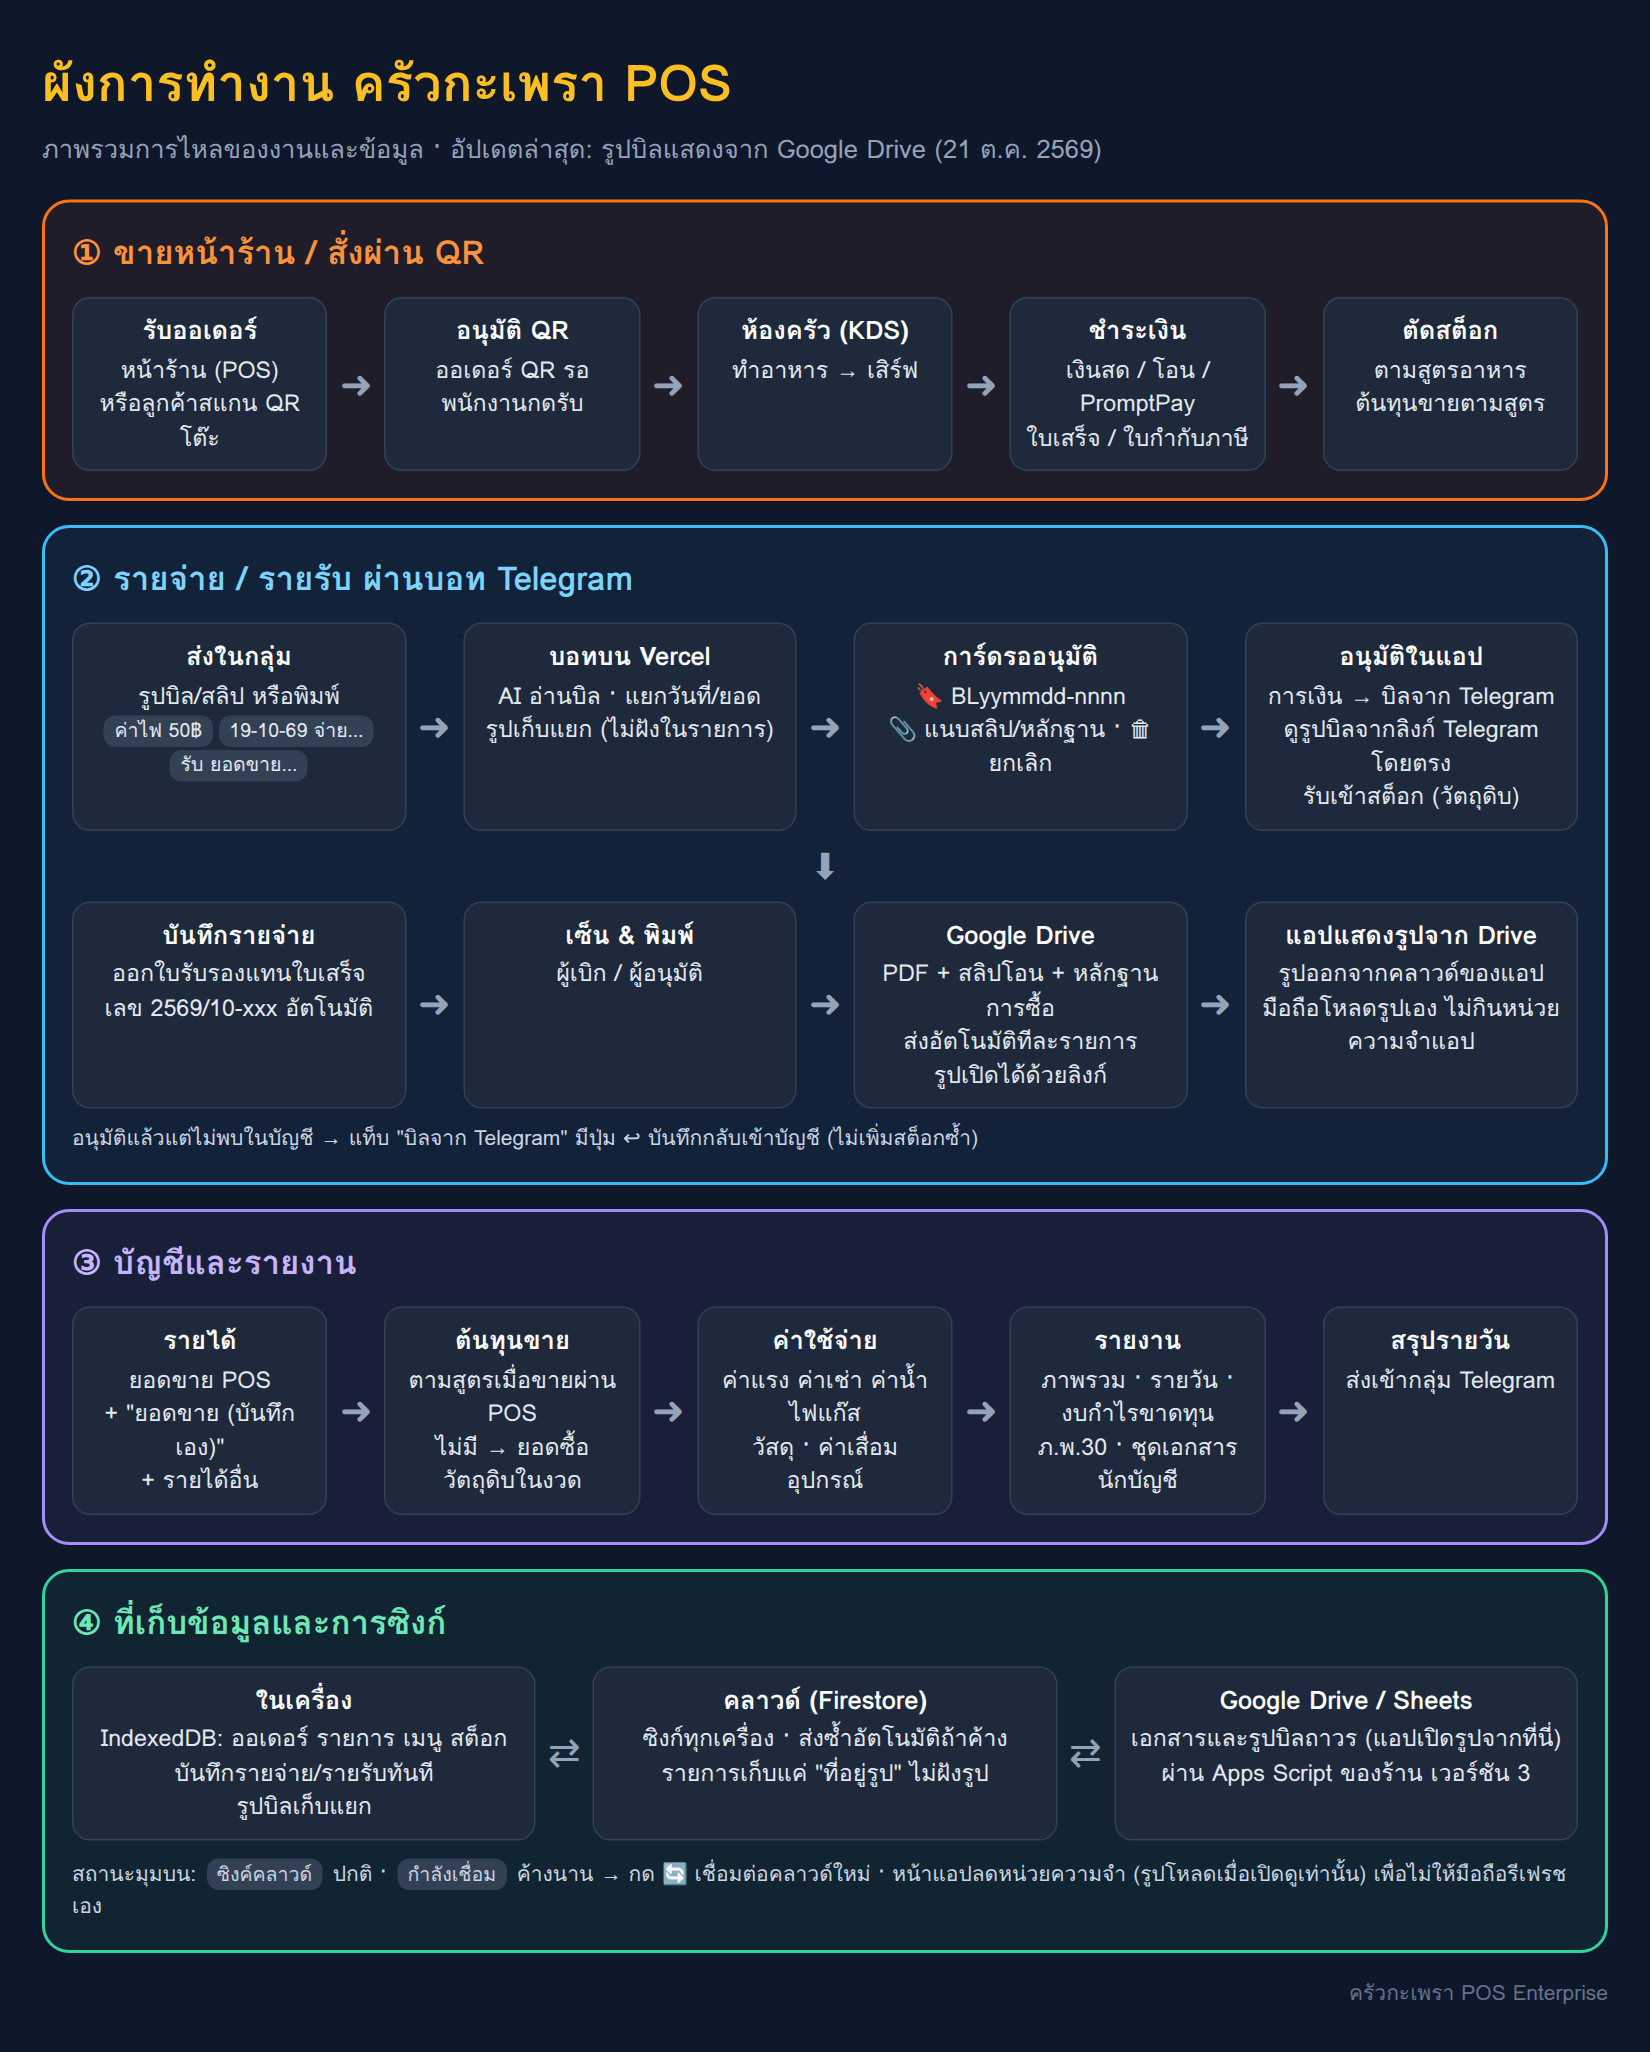
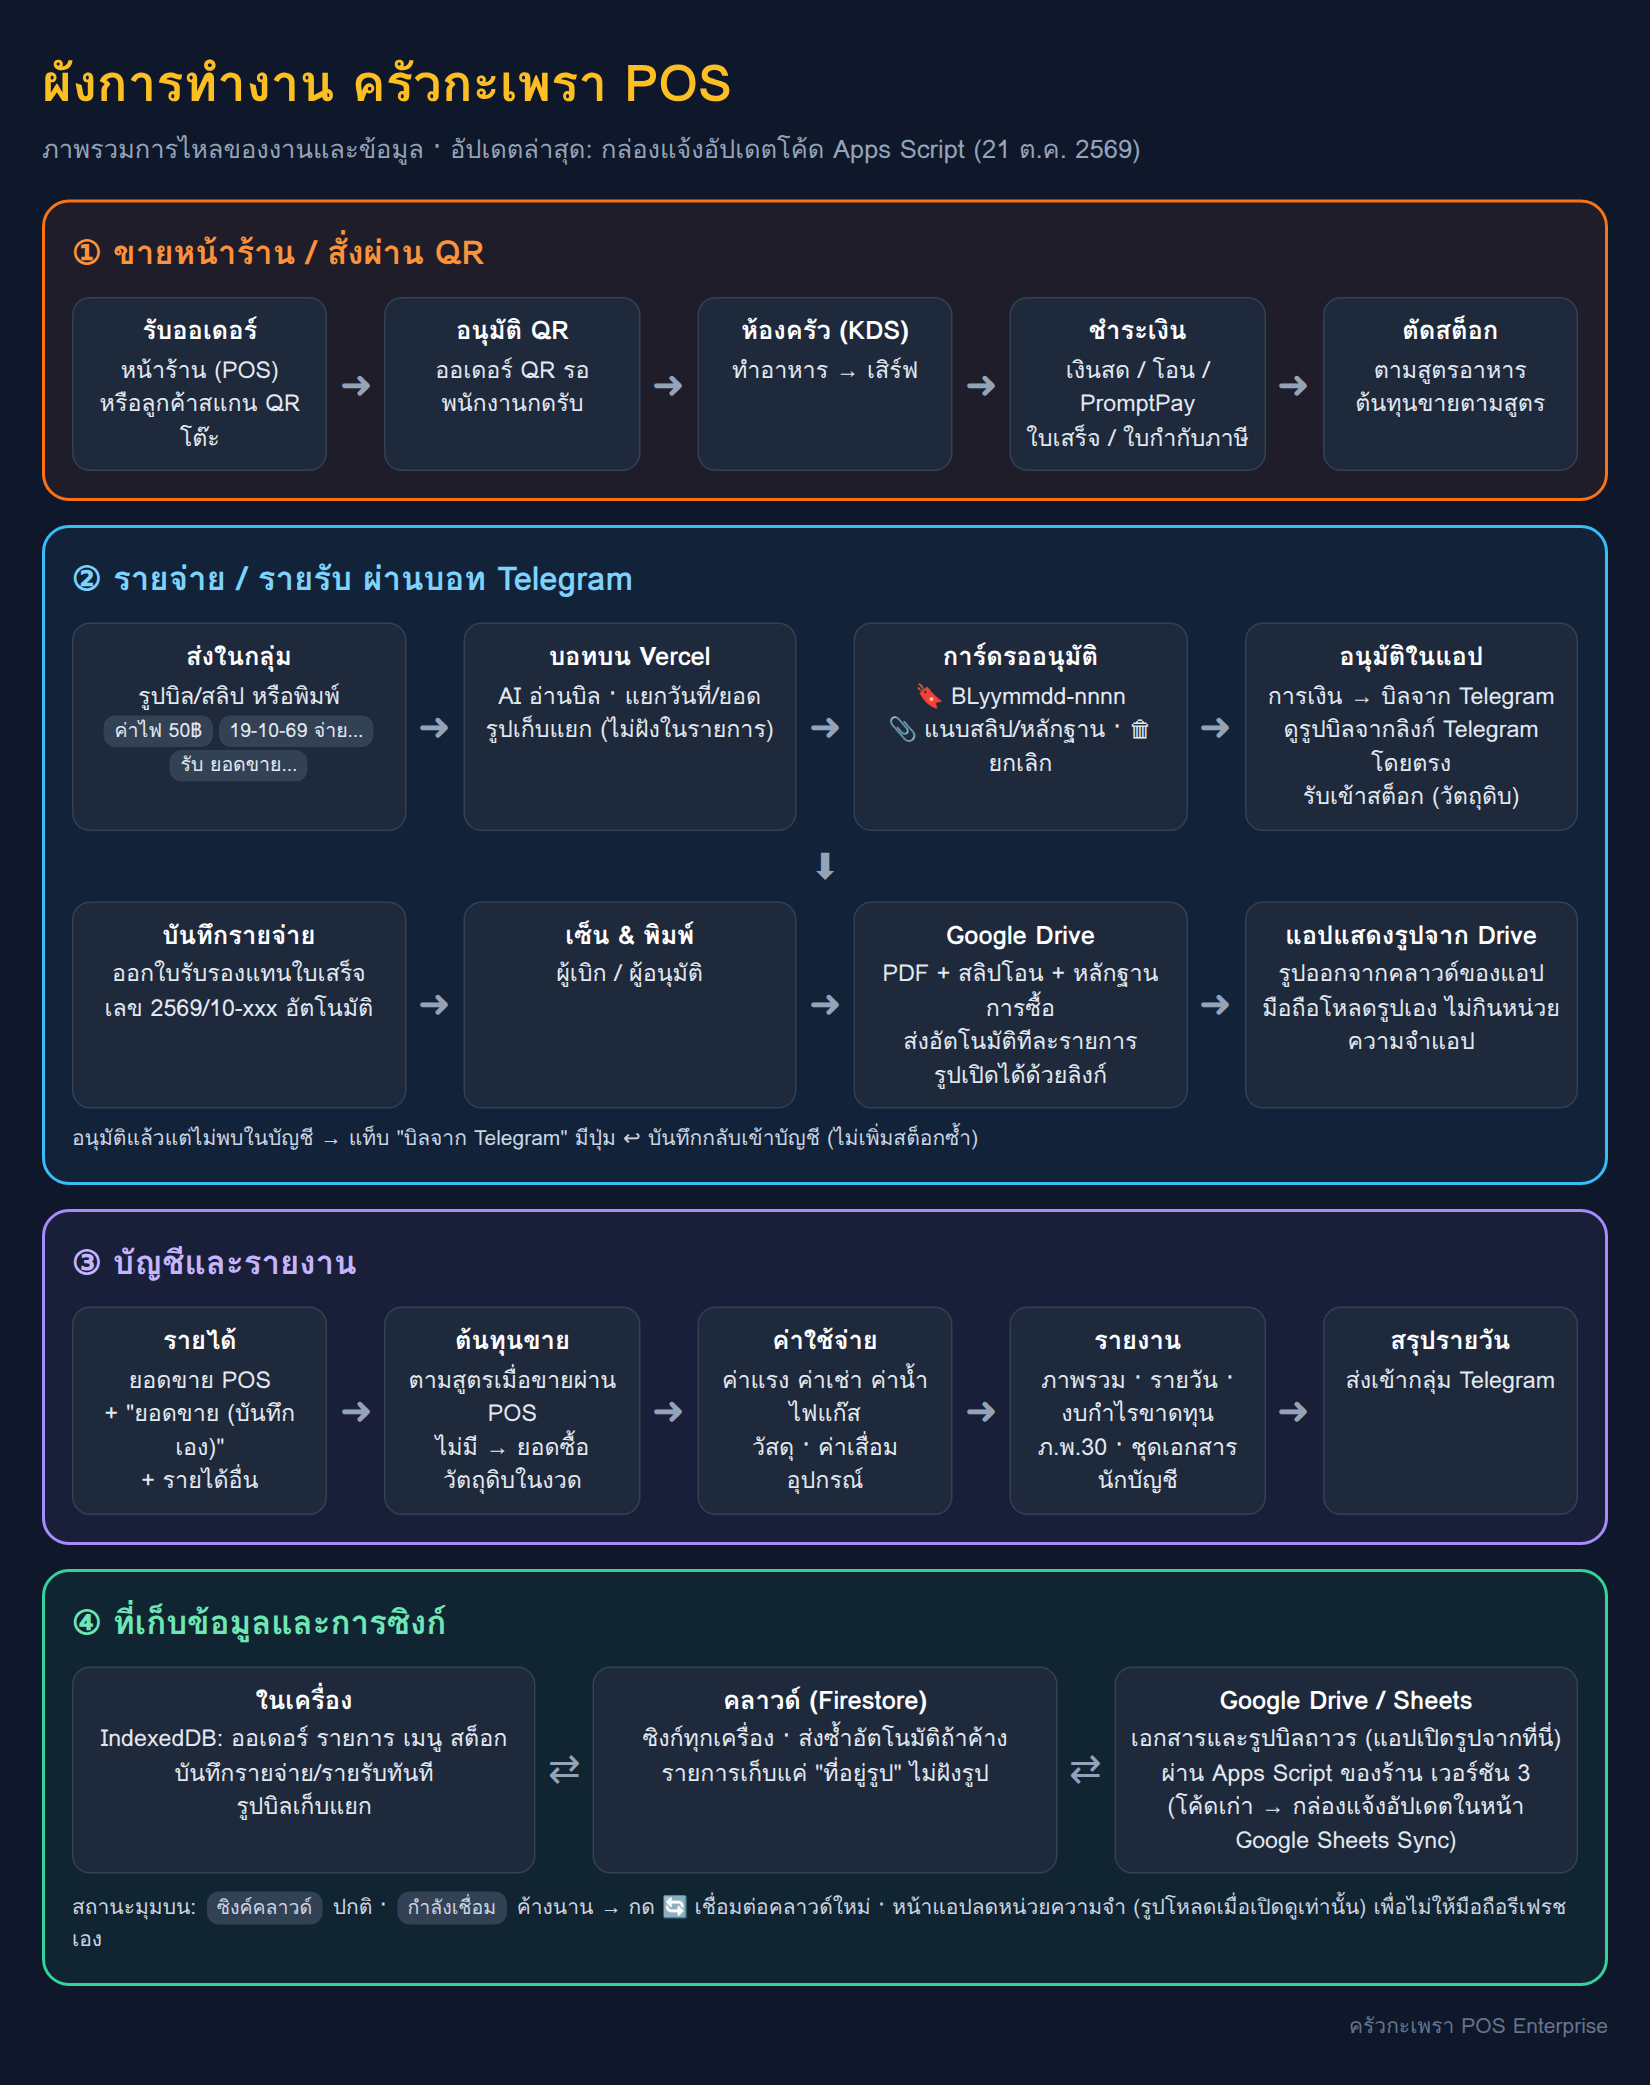
Google Sheets Sync: a clear box to update the Apps Script code
The owner could not find the small "copy the new code" link. When the
deployed script is older than this app's, the panel now shows a box with
the steps and a big copy button.

Claude-Session: https://claude.ai/code/session_01Gq3UvYW4wv3hsVCXoh5wxy

diff --git a/src/components/sheets/SheetsScriptPanel.tsx b/src/components/sheets/SheetsScriptPanel.tsx
@@ -52,6 +52,20 @@ export const SheetsScriptPanel: React.FC = () => {
 
   const connected = !!saved?.url && saved.secret === secret;
 
+  // The version of the script the shop deployed: an older one gets a clear "update the code" box
+  const [scriptVersion, setScriptVersion] = useState(0);
+  useEffect(() => {
+    if (!saved?.url || !saved.secret) return;
+    let alive = true;
+    pingScript(saved.url, saved.secret)
+      .then(r => alive && setScriptVersion(r.version || 1))
+      .catch(() => undefined);
+    return () => {
+      alive = false;
+    };
+  }, [saved?.url, saved?.secret]);
+  const outdated = connected && scriptVersion > 0 && scriptVersion < SCRIPT_VERSION;
+
   const copyCode = async () => {
     try {
       await navigator.clipboard.writeText(appsScriptCode(secret));
@@ -136,6 +150,22 @@ export const SheetsScriptPanel: React.FC = () => {
           </span>
         )}
       </div>
+
+      {outdated && (
+        <div className="p-3 rounded-xl border-2 border-amber-500/70 bg-amber-950/40 text-amber-100 space-y-2">
+          <div className="font-bold text-sm">⬆ มีโค้ด Apps Script เวอร์ชันใหม่ ({scriptVersion} → {SCRIPT_VERSION})</div>
+          <div className="text-[11px] leading-relaxed">
+            เวอร์ชันใหม่ทำให้แอปแสดงรูปสลิปและหลักฐานการซื้อจาก Google Drive ได้โดยตรง
+            <br />1. กดปุ่ม “คัดลอกโค้ดใหม่” ด้านล่าง
+            <br />2. เปิดไฟล์ Google Sheets ของร้าน → ส่วนขยาย → Apps Script → ลบโค้ดเดิมทั้งหมด วางโค้ดใหม่ แล้วกดบันทึก
+            <br />3. ทำให้ใช้งานได้ → จัดการการทำให้ใช้งานได้ → ✏ แก้ไข → เวอร์ชัน: เวอร์ชันใหม่ → ทำให้ใช้งานได้ (ลิงก์เดิมใช้ต่อได้)
+            <br />4. ถ้า Google ขอสิทธิ์ ให้กดอนุญาต แล้วกลับมาเปิดหน้านี้ใหม่ กล่องนี้จะหายไป
+          </div>
+          <button type="button" onClick={copyCode} className="h-11 w-full rounded-xl bg-amber-500 hover:bg-amber-400 text-slate-950 font-bold flex items-center justify-center gap-1.5">
+            <ClipboardCopy className="w-4 h-4" /> {copied ? 'คัดลอกโค้ดแล้ว' : 'คัดลอกโค้ดใหม่'}
+          </button>
+        </div>
+      )}
 
       {connected && (
         <div className="space-y-2">

diff --git a/docs/workflow/flow.html b/docs/workflow/flow.html
@@ -17,7 +17,7 @@ h1{margin:0 0 4px;font-size:34px;color:#fbbf24}.sub{color:#94a3b8;font-size:17px
 .foot{color:#64748b;font-size:14px;margin-top:6px;text-align:right}
 </style></head><body>
 <h1>ผังการทำงาน ครัวกะเพรา POS</h1>
-<div class="sub">ภาพรวมการไหลของงานและข้อมูล · อัปเดตล่าสุด: รูปบิลแสดงจาก Google Drive (21 ต.ค. 2569)</div>
+<div class="sub">ภาพรวมการไหลของงานและข้อมูล · อัปเดตล่าสุด: กล่องแจ้งอัปเดตโค้ด Apps Script (21 ต.ค. 2569)</div>
 
 <div class="lane pos"><h2>① ขายหน้าร้าน / สั่งผ่าน QR</h2>
 <div class="row">
@@ -58,7 +58,7 @@ h1{margin:0 0 4px;font-size:34px;color:#fbbf24}.sub{color:#94a3b8;font-size:17px
 <div class="row">
 <div class="box"><b>ในเครื่อง</b>IndexedDB: ออเดอร์ รายการ เมนู สต็อก<br>บันทึกรายจ่าย/รายรับทันที<br>รูปบิลเก็บแยก</div><div class="ar">⇄</div>
 <div class="box"><b>คลาวด์ (Firestore)</b>ซิงก์ทุกเครื่อง · ส่งซ้ำอัตโนมัติถ้าค้าง<br>รายการเก็บแค่ "ที่อยู่รูป" ไม่ฝังรูป</div><div class="ar">⇄</div>
-<div class="box"><b>Google Drive / Sheets</b>เอกสารและรูปบิลถาวร (แอปเปิดรูปจากที่นี่)<br>ผ่าน Apps Script ของร้าน เวอร์ชัน 3</div>
+<div class="box"><b>Google Drive / Sheets</b>เอกสารและรูปบิลถาวร (แอปเปิดรูปจากที่นี่)<br>ผ่าน Apps Script ของร้าน เวอร์ชัน 3<br>(โค้ดเก่า → กล่องแจ้งอัปเดตในหน้า Google Sheets Sync)</div>
 </div>
 <div class="note">สถานะมุมบน: <span class="tag">ซิงค์คลาวด์</span> ปกติ · <span class="tag">กำลังเชื่อม</span> ค้างนาน → กด 🔄 เชื่อมต่อคลาวด์ใหม่ · หน้าแอปลดหน่วยความจำ (รูปโหลดเมื่อเปิดดูเท่านั้น) เพื่อไม่ให้มือถือรีเฟรชเอง</div>
 </div>
